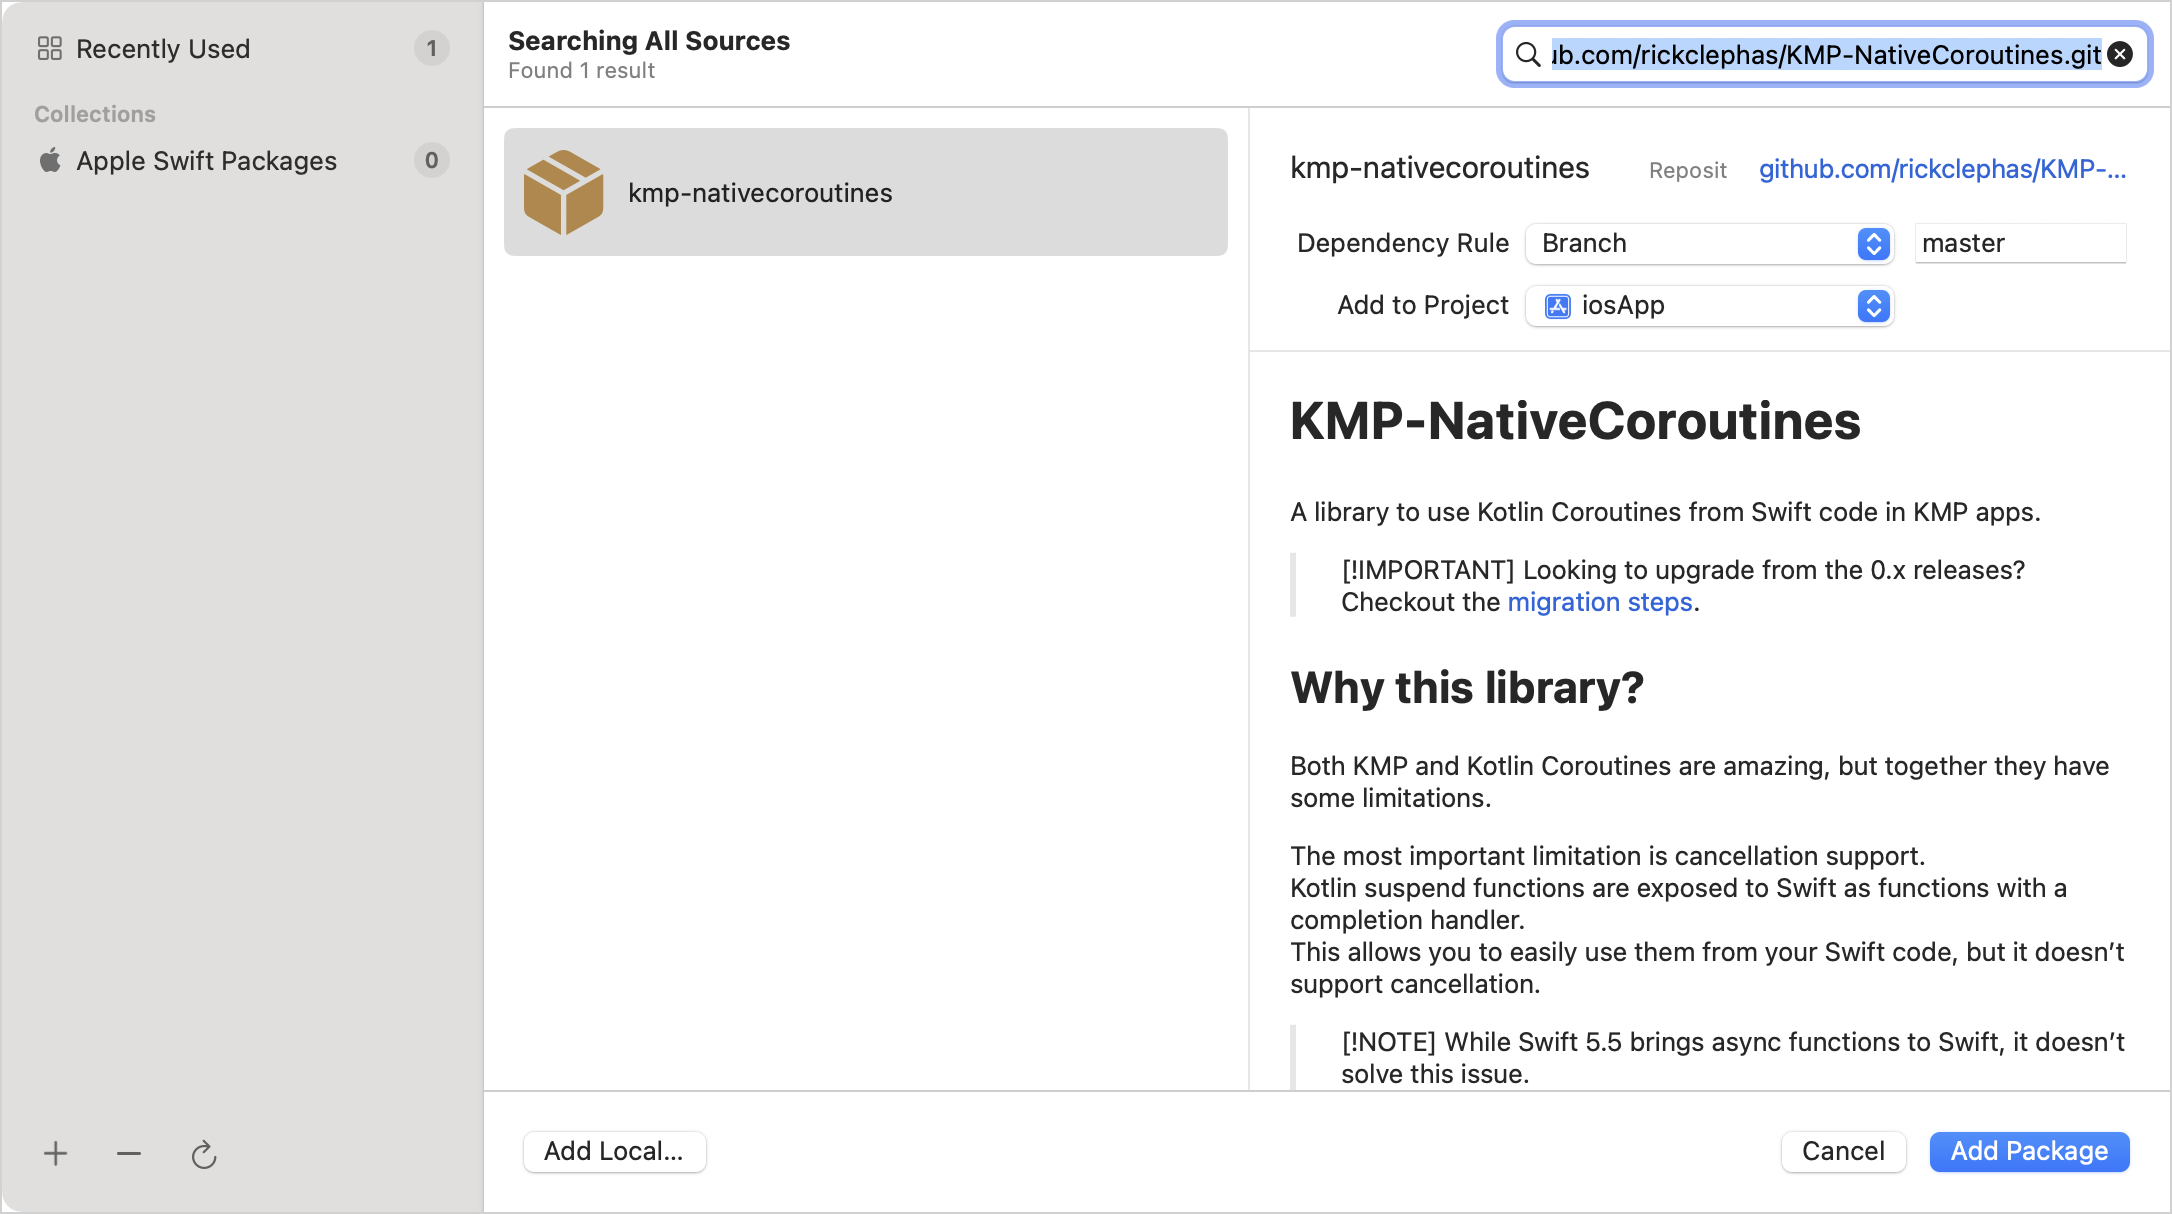
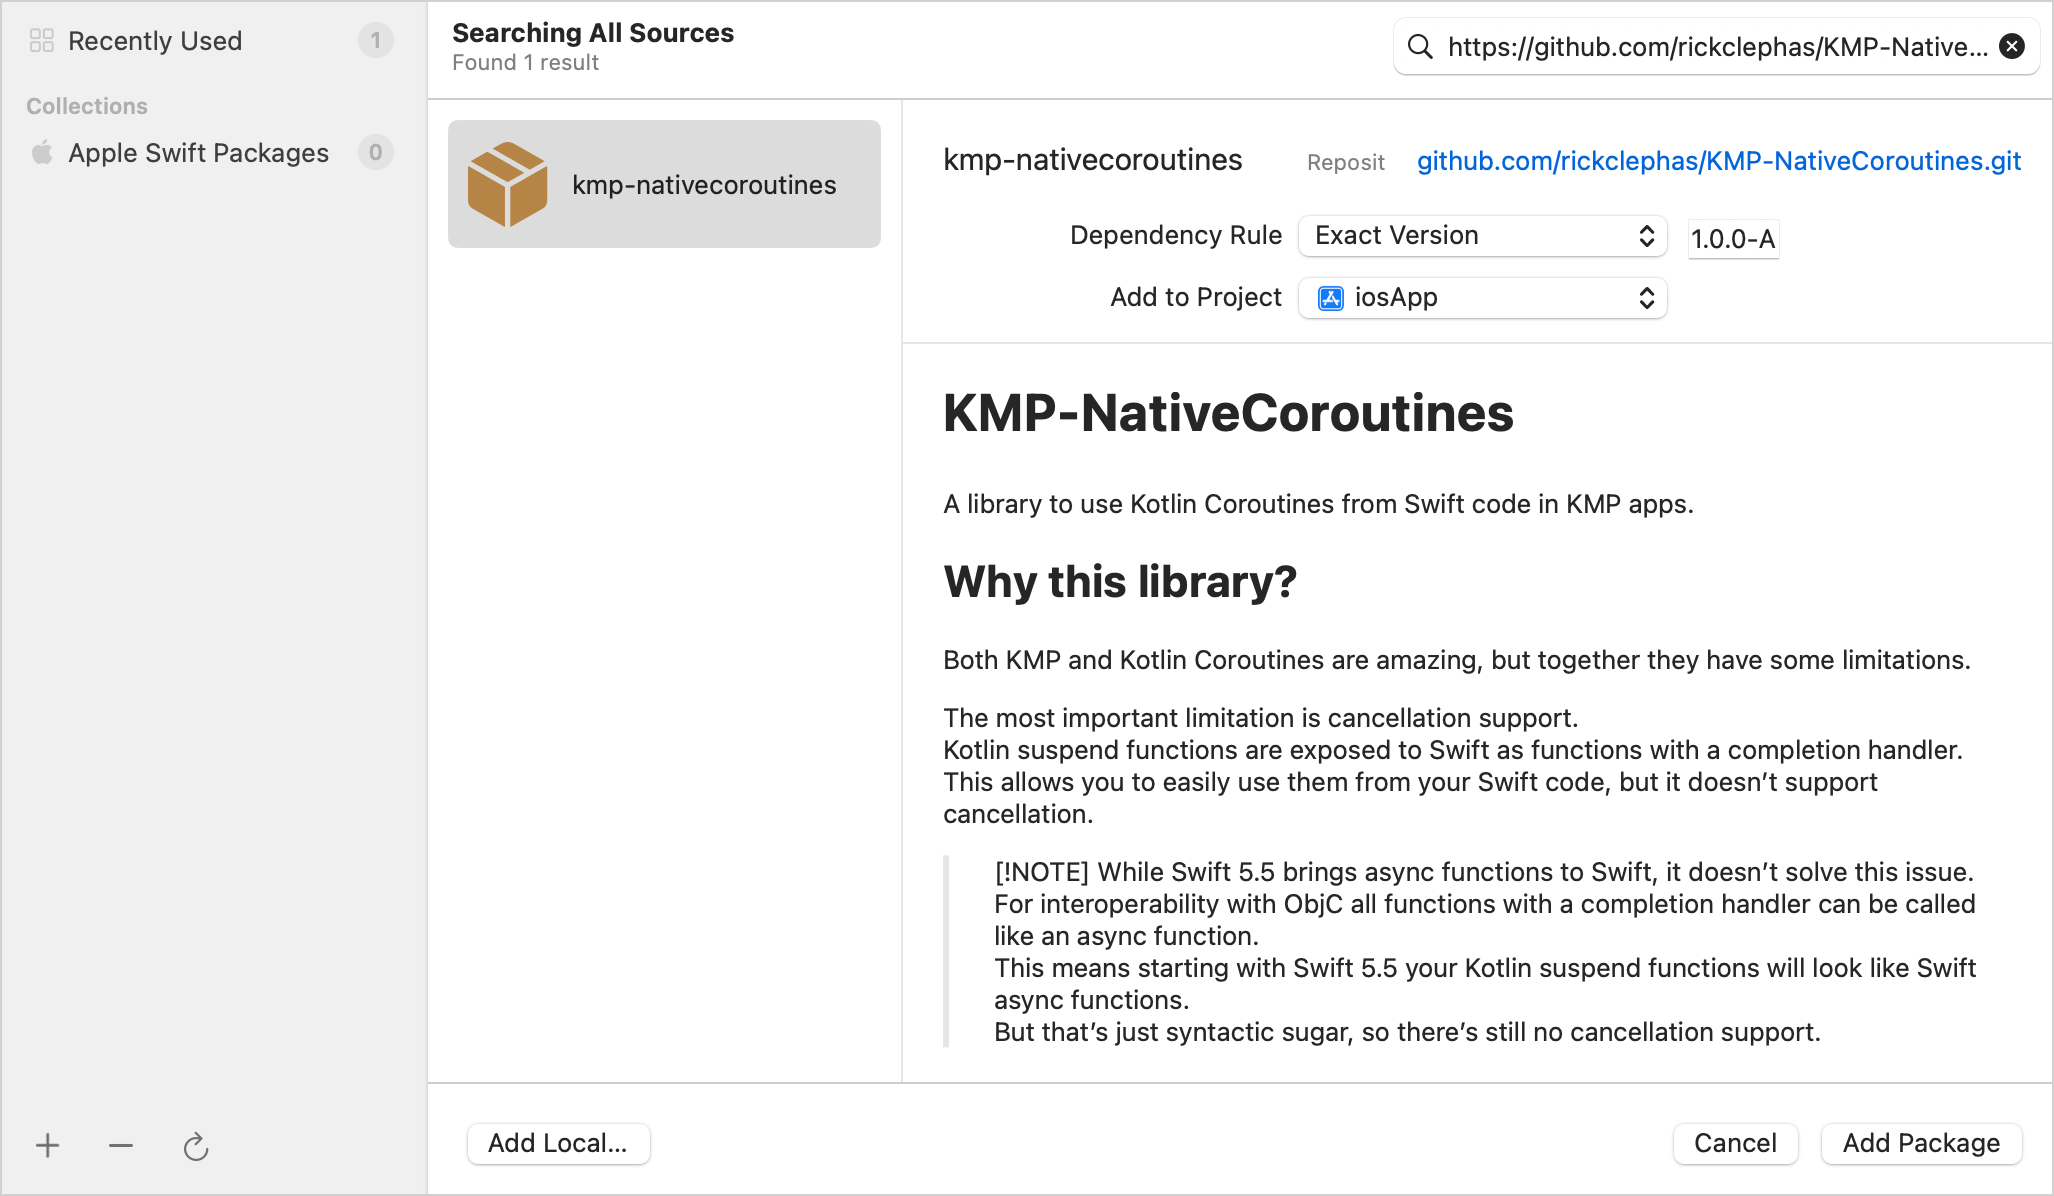
update: switch to an exact version of KMP-NC
Using the master branch dependency rule made imports go out of whack sometimes in Xcode CLI.

diff --git a/topics/multiplatfrom-onboard/multiplatform-upgrade-app.md b/topics/multiplatfrom-onboard/multiplatform-upgrade-app.md
@@ -560,7 +560,7 @@ Return to Xcode and update the code using the library:
     ```kotlin
     plugins {
         // ...
-        id("com.google.devtools.ksp").version("2.0.0-1.0.22").apply(false)
+        id("com.google.devtools.ksp").version("2.0.0-1.0.24").apply(false)
         id("com.rickclephas.kmp.nativecoroutines").version("%kmpncVersion%").apply(false)
     }
     ```
@@ -621,12 +621,13 @@ Return to Xcode and update the code using the library:
 
    ![Importing KMP-NativeCoroutines](multiplatform-import-kmp-nativecoroutines.png){width=700}
 
-3. Keep the default options ("Branch" and "master" for **Dependency Rule**), then click the **Add Package** button.
-4. In the next window, select "KMPNativeCoroutinesAsync" and "KMPNativeCoroutinesCore", and then click **Add Package**:
+3. In the **Dependency Rule** dropdown, select the **Exact Version** item and enter the `1.0.0-ALPHA-33` version in the adjacent field.
+4. Click the **Add Package** button: Xcode will fetch the package from GitHub and open another window to choose package products.
+5. Add "KMPNativeCoroutinesAsync" and "KMPNativeCoroutinesCore" to your app as shown, then click **Add Package**:
 
    ![Add KMP-NativeCoroutines packages](multiplatform-add-package.png){width=500}
 
-This should install the KMP-NativeCoroutines package necessary to work with the `async/await` mechanism.
+This should install the parts of the KMP-NativeCoroutines package necessary to work with the `async/await` mechanism.
 
 ##### Consume the flow using the KMP-NativeCoroutines library
 
